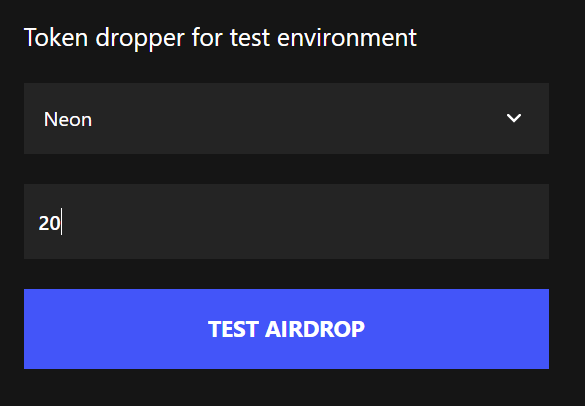
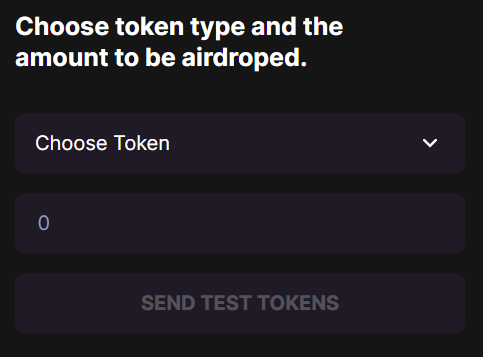
Updated Faucet docs to conform to new UI

diff --git a/docs/developing/utilities/faucet.md b/docs/developing/utilities/faucet.md
@@ -14,11 +14,11 @@ Go to the [Neonswap Faucet page](https://neonfaucet.org/) to request test tokens
 
 ### Step 3
 Connect your MetaMask wallet:
-- Click on the `Connect Wallet` button to authorize the connection in the MetaMask pop-up.
+- Click on the `CONNECT WALLET` button to authorize the connection in the MetaMask pop-up.
 
 <div class='neon-img-box-300' style={{textAlign: 'center'}}>
 
-![](./images/connect_walet.png)
+![](./images/connect_wallet.png)
 
 </div>
 
@@ -38,7 +38,7 @@ Connect your MetaMask wallet:
 
 </div>
 
-- In the form that appears, select the token and enter the amount of tokens you would like to request, and then click on the `TEST AIRDROP` button.
+- In the form that appears, select the token and enter the amount of tokens you would like to request, and then click on the `SEND TEST TOKENS` button.
 
 <div class='neon-img-box-300' style={{textAlign: 'center'}}>
 
